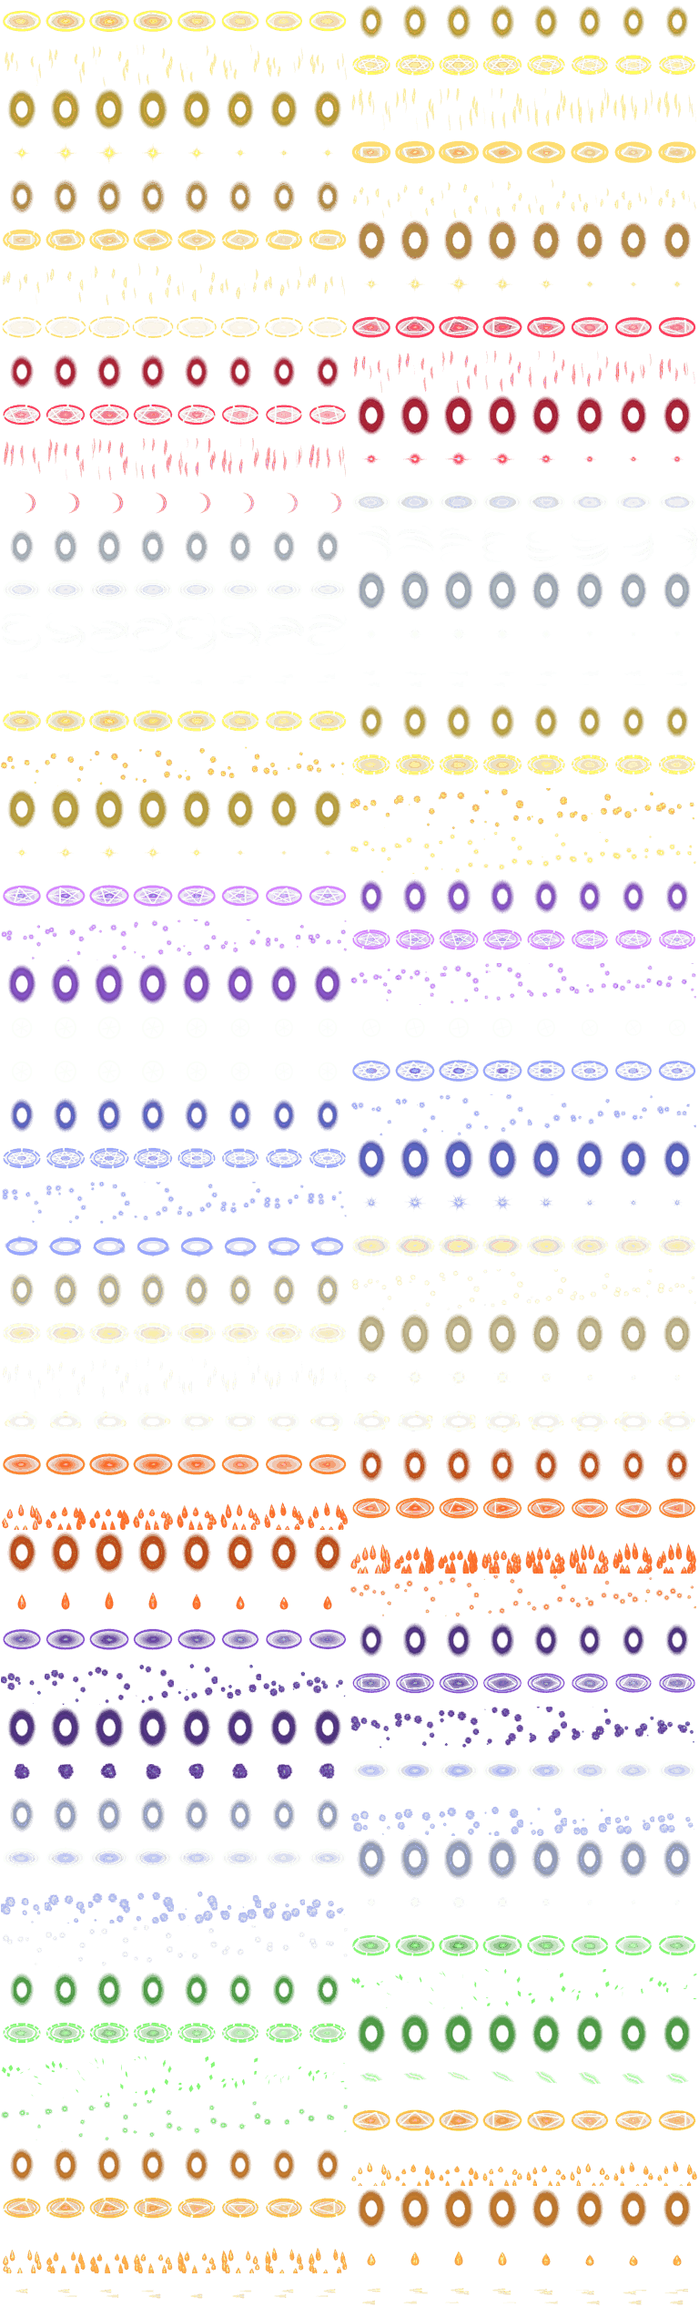
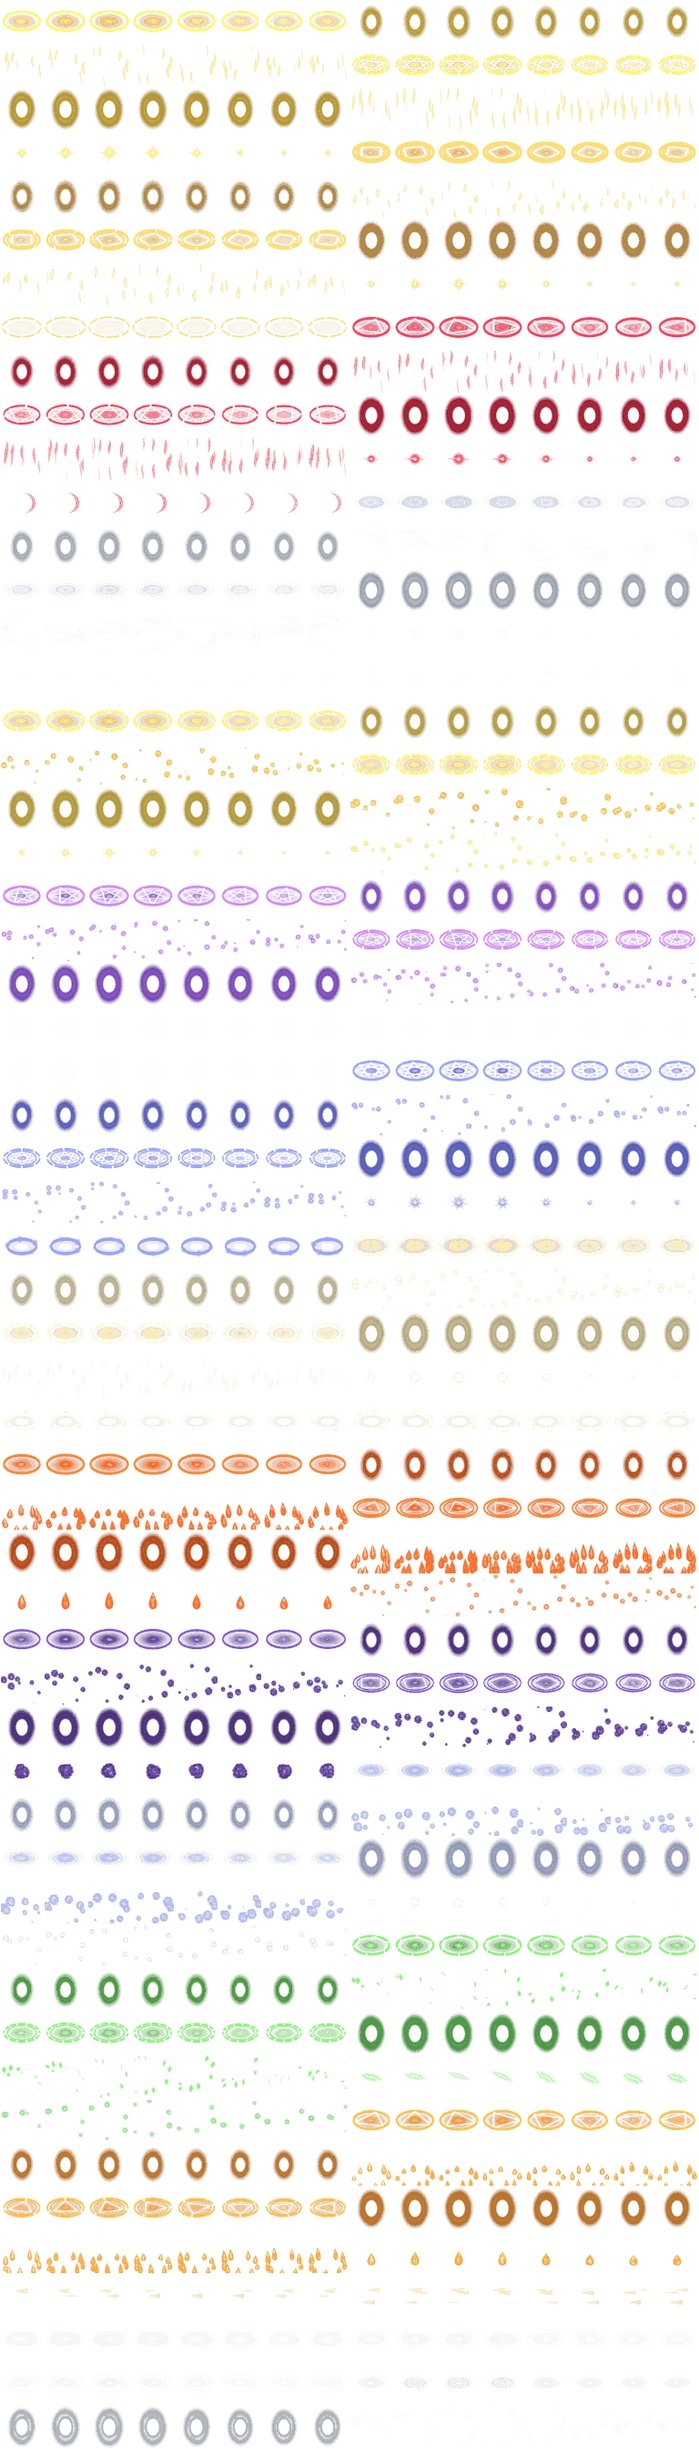
AURAS-BLENDER: no sparkles over a body; a level's rings, a summon's ring and glow rendered
The stars a fighter of a higher grade rose in were drawn in code in front
of its body and took no notice of reduced motion; a summon's are soft motes
behind it now. The level-milestone rings, the ring under a summon and a
summon's glow are plain rendered strips, tinted, under the feet or behind
the body.

Claude-Session: https://claude.ai/code/session_01RRJtWnKv3aqtC5Z8HqXpVz

Changed region(s): [[0.0, 0.0, 1.0, 1.0]]

diff --git a/src/render/unitView.ts b/src/render/unitView.ts
@@ -11,7 +11,7 @@ import { formOf, UNITS } from '../sim/units';
 import { REVIVE_MS } from '../sim/lives';
 import { RANK_BADGE } from '../expansionArt';
 import { AwakenAura } from './awakenAura';
-import { auraOf } from './auraStyles';
+import { auraOf, gradeParts, levelParts, markParts } from './auraStyles';
 import { awakenedSheet, battleSheet, combatAuraStep } from './awakenLook';
 import { summonLook, summonMark, summonSheet } from './summonArt';
 import { facesRightOf, framesOf, figureOf, hasSheet, type Anim } from './sheets';
@@ -61,7 +61,6 @@ const GRADE4_SIZE = 1.14;
 /** Rank 4's colours: a violet halo and rim, and violet sparks (grade 3's are gold). */
 const GRADE4_HALO = 0xb06aff;
 const GRADE4_RIM = 0xd49aff;
-const GRADE4_SPARK = 0xe6c2ff;
 /** The ultimate's meter under the skill's: violet while it fills, gold when ready. */
 const ULT_FILL = 0xb06aff;
 const ULT_READY = 0xffd24a;
@@ -139,8 +138,6 @@ export class UnitSprite {
   readonly root = new Container();
   private body = new Sprite();
   private shadow = new Graphics();
-  /** SUMMON-ART: a summon's ring under its feet, in its caller's element colour (empty for the rest). */
-  private mark = new Graphics();
   private bar = new Graphics();
   /** SUMMON-TIMERS: a small ring by the health bar of a summon or a shifted hero, emptying as its timer runs out (`timerOf`, carry.ts). */
   private clock = new Graphics();
@@ -163,9 +160,6 @@ export class UnitSprite {
   private kx = 0;
   private ky = 0;
   private flash = 0;
-  private glow = new Graphics();
-  /** The rings (and, higher up, the halo) of a deep level milestone, drawn once. */
-  private aura = new Graphics();
   /** Four flat-coloured copies of the body, a pixel out each way: a rim behind the sprite. */
   private rim = new Container();
   private sparks = new Graphics();
@@ -183,6 +177,8 @@ export class UnitSprite {
   private perkMark = new Sprite();
   /** An awakened hero's class aura (null for the rest). */
   private awakenAura: AwakenAura | null;
+  /** The plain strips round it (a level's rings, a summon's ring, a higher grade's glow), or none. */
+  private plainAura: AwakenAura | null = null;
   private burstAt = -1;
   /** When a life raised this fighter (Date.now ms; -1 when it is not getting up), and how it fell (for its tint going back). */
   private riseAt = -1;
@@ -237,12 +233,8 @@ export class UnitSprite {
     this.root.scale.set(size);
     this.baseSize = size;
     if (this.grade > 1) {
-      // a halo of stacked ellipses behind the body (silver-blue, then gold), drawn once, and a rim of the body's own shape
+      // a rim of the body's own shape (the glow behind it is its aura's: `AwakenAura`, or `gradeParts` for a summon)
       const col = this.grade > 3 ? GRADE4_HALO : auraOf(unit.def).colour;
-      const h = this.tall * 0.62;
-      // (AURAS-BLENDER: a hero's glow behind its body is its aura's own rendered shell now; only a fighter with no class aura, a foe
-      // or a summon of a higher grade, keeps the stacked ellipses)
-      if (!this.awakenAura) for (let i = 5; i >= 1; i--) this.glow.ellipse(0, -this.tall * 0.45, (12 + i * 5) / size, (h * (0.5 + i * 0.13)) / size).fill({ color: col, alpha: this.grade > 3 ? 0.16 : this.grade > 2 ? 0.12 : 0.1 });
       for (const [dx, dy] of [[-1.6, 0], [1.6, 0], [0, -1.6], [0, 1.6]]) {
         const r = new Sprite();
         r.anchor.set(0.5, 1);
@@ -254,15 +246,18 @@ export class UnitSprite {
       if (tone.length) this.body.filters = tone;
     }
     this.shadow.ellipse(0, 0, 13, 5).fill({ color: 0x000000, alpha: 0.32 });
+    // (AURAS-BLENDER: what was drawn in code round a fighter is rendered now, from the aura atlas's plain strips, each in its colour:
+    // the ring under a summon that says whose it is, the rings (and from the Gold badge a faint glow) a hero past a deep milestone
+    // stands in, and the glow and rising motes of a summon of a higher combat grade. All of it under the feet or behind the body:
+    // the stars a higher grade rose in were in front of it. Reduced motion holds each on one frame)
     const markColour = summon ? summonMark(unit.def) : undefined;
-    if (markColour !== undefined) this.mark.ellipse(0, 0, 12, 4.6).fill({ color: markColour, alpha: 0.16 }).stroke({ color: markColour, width: 1.2, alpha: 0.75 });
-    // a hero past a deep milestone (lasting level 40 and up) stands in steady rings of the badge's colour
     const tier = unit.side === 'hero' ? badgeOf(unit.level ?? 1) : 0;
-    if (tier) {
-      const col = AURA_COLOURS[tier];
-      for (let i = 0; i < auraRings(tier); i++) this.aura.ellipse(0, 0, 15 + i * 4, 6.5 + i * 1.7).stroke({ color: col, width: 1.5, alpha: 0.85 - i * 0.2 });
-      if (auraHalo(tier)) for (let i = 3; i >= 1; i--) this.aura.ellipse(0, -this.tall * 0.4, (10 + i * 5) / size, (this.tall * (0.28 + i * 0.12)) / size).fill({ color: col, alpha: 0.07 });
-    }
+    const plainParts = [
+      ...(markColour !== undefined ? markParts(markColour) : []),
+      ...levelParts(auraRings(tier), auraHalo(tier), AURA_COLOURS[tier] ?? 0),
+      ...(this.awakenAura ? [] : gradeParts(this.grade, this.grade > 3 ? GRADE4_HALO : auraOf(unit.def).colour, settings().saver)),
+    ];
+    this.plainAura = plainParts.length ? new AwakenAura(plainParts) : null;
     this.body.anchor.set(0.5, 1);
     this.shield.anchor.set(0.5);
     this.shield.visible = false;
@@ -280,7 +275,7 @@ export class UnitSprite {
     this.mergeRim.filters = [flatFilter(MERGE_RIM)];
     this.mergeRim.visible = false;
     this.drawPickRing();
-    this.root.addChild(this.shadow, this.pickRing, this.mark, this.aura, this.glow, ...(this.awakenAura ? [this.awakenAura.back] : []), this.pillar, this.shield, this.ail.back, this.mergeRim, this.rim, this.body, ...(this.awakenAura ? [this.awakenAura.front] : []), this.sparks, this.stars, this.bar, this.clock, this.badge, this.ail.front, ...(this.plate ? [this.plate] : []), this.perkMark, this.pickMark);
+    this.root.addChild(this.shadow, this.pickRing, ...(this.plainAura ? [this.plainAura.back] : []), ...(this.awakenAura ? [this.awakenAura.back] : []), this.pillar, this.shield, this.ail.back, this.mergeRim, this.rim, this.body, ...(this.awakenAura ? [this.awakenAura.front] : []), this.sparks, this.stars, this.bar, this.clock, this.badge, this.ail.front, ...(this.plate ? [this.plate] : []), this.perkMark, this.pickMark);
   }
 
   /** A nemesis's look (`sim/nemesis.ts`): its rank's rim round the body, a darker tone, and its name plate. Drawn once; nothing in it moves. */
@@ -501,6 +496,10 @@ export class UnitSprite {
     this.body.x = (facesRight(u.facing) ? 1 : -1) * motion.offset;
     this.body.scale.x *= 1 + motion.stretch;
     this.body.scale.y *= 1 - motion.stretch * 0.5;
+    if (this.plainAura) {
+      this.plainAura.back.visible = u.alive;
+      if (u.alive) this.plainAura.update(t, this.tall / this.sizeNow, dx, !!this.reduced?.matches);
+    }
     if (this.awakenAura) {
       this.awakenAura.back.visible = this.awakenAura.front.visible = u.alive;
       if (u.alive) this.awakenAura.update(t, this.tall / this.sizeNow, dx, !!this.reduced?.matches);
@@ -512,7 +511,6 @@ export class UnitSprite {
     this.shadow.alpha = def.flies ? 0.5 : 1;
     // (in a launch's arc the shadow stays on the ground)
     this.shadow.y = arcLift;
-    this.mark.visible = u.alive;
     this.pickRing.visible = this.picked;
     this.pickMark.visible = this.picked && u.alive;
     if (this.picked) {
@@ -852,26 +850,15 @@ export class UnitSprite {
   private drawSparks(alive: boolean): void {
     const g = this.sparks;
     const burst = this.burstAt >= 0 ? (Date.now() - this.burstAt) / BURST_MS : 2;
-    // (AURAS-BLENDER: a hero that wears a rendered aura has its motes from it, behind its body; the sparkles drawn here rose over
-    // the body, and took no notice of reduced motion. They are left to a fighter with no class aura)
-    const sparkle = this.grade > 2 && !this.awakenAura;
-    if (!alive || (!sparkle && burst > 1)) {
+    // (AURAS-BLENDER: the sparkles a grade 3 fighter rose in were drawn here, over its body, and took no notice of reduced motion.
+    // They are the aura's own motes now, behind the body: a hero's from its class aura, a summon's from `gradeParts`.)
+    if (!alive || burst > 1) {
       if (g.visible) g.clear();
       g.visible = false;
       return;
     }
     g.visible = true;
     g.clear();
-    const now = Date.now();
-    const gold = this.grade > 3 ? GRADE4_SPARK : this.grade > 2 ? 0xffe27a : 0xdce8ff;
-    // (rank 4 rises in more sparks, and violet ones)
-    const n = this.grade > 3 ? 9 : 6;
-    if (sparkle)
-      for (let i = 0; i < n; i++) {
-        const f = ((now / 1500 + i / n) % 1);
-        const x = Math.sin(i * 2.4 + now / 900) * 14;
-        g.star(x, -this.tall * 0.1 - f * this.tall * 0.95, 4, 3.4, 1.3).fill({ color: gold, alpha: Math.sin(Math.PI * f) });
-      }
     if (burst <= 1) {
       g.ellipse(0, -this.tall * 0.4, 8 + burst * 34, 4 + burst * 20).stroke({ color: 0xfff2b0, width: 3 * (1 - burst) + 0.5, alpha: 1 - burst });
       g.ellipse(0, -this.tall * 0.45, 12 + burst * 10, this.tall * 0.6).fill({ color: 0xffffff, alpha: 0.55 * (1 - burst) });

diff --git a/test/awaken-auras.test.ts b/test/awaken-auras.test.ts
@@ -1,7 +1,7 @@
 import { test } from 'node:test';
 import assert from 'node:assert/strict';
 import { readFileSync } from 'node:fs';
-import { AURAS, AURA_KEYS, auraKey, auraOf, auraParts, FALLBACK_AURA, FOE_AURA } from '../src/render/auraStyles';
+import { AURAS, AURA_KEYS, PLAIN_KEYS, auraKey, auraOf, auraParts, gradeParts, levelParts, markParts, FALLBACK_AURA, FOE_AURA } from '../src/render/auraStyles';
 import { newPose, poseAura } from '../src/render/auraPlace';
 import { HERO_TRAITS, TRAITS } from '../src/sim/traits';
 import { ALL_HEROES } from '../src/sim/units';
@@ -20,7 +20,7 @@ test('the rendered aura strips are small soft-edged transparent cells and fit wi
   const width = png.readUInt32BE(16), height = png.readUInt32BE(20);
   assert.ok(width <= 4096 && height <= 4096, 'fits mobile texture limits');
   const occupied = new Set<string>();
-  assert.deepEqual(Object.keys(atlas.parts).sort(), [...AURA_KEYS].sort());
+  assert.deepEqual(Object.keys(atlas.parts).sort(), [...AURA_KEYS, ...PLAIN_KEYS].sort());
   for (const [key, [x, y, frames]] of Object.entries(atlas.parts)) {
     assert.equal(frames, 8, `${key} has a complete animation loop`);
     assert.ok((x + frames) * atlas.cell <= width && (y + 1) * atlas.cell <= height, key);
@@ -107,6 +107,30 @@ test('AURAS-BLENDER: nothing of an aura is drawn in front of the body, and the s
   }
   // (a hero that wears a rendered aura has no code-drawn halo behind it and no code-drawn sparkles over it)
   const view = readFileSync('src/render/unitView.ts', 'utf8');
-  assert.match(view, /if \(!this\.awakenAura\) for \(let i = 5; i >= 1; i--\) this\.glow\.ellipse\(/);
-  assert.match(view, /const sparkle = this\.grade > 2 && !this\.awakenAura;/);
+  assert.ok(!/this\.glow\.ellipse|this\.aura\.ellipse|this\.mark\.ellipse|g\.star\(x, -this\.tall/.test(view), 'no halo, ring or rising star is drawn in code');
+});
+
+test('AURAS-BLENDER: a level\'s rings, a summon\'s ring and a higher grade\'s glow are plain rendered strips, tinted, under or behind the body', () => {
+  const all = [...levelParts(3, true, 0xffb878), ...markParts(0x6cd060), ...gradeParts(4, 0xb06aff)];
+  for (const part of all) {
+    assert.ok(PLAIN_KEYS.includes(part.key), part.key);
+    assert.ok(!part.front, `${part.key} is never in front of the body`);
+    assert.ok(part.tint !== undefined, `${part.key} takes its colour`);
+    assert.ok(['ground', 'wrap', 'rise'].includes(part.place));
+  }
+  // (none below the first milestone or the second grade; more rings higher up, a glow only from the halo's tier)
+  assert.deepEqual(levelParts(0, false, 0), []);
+  assert.deepEqual(gradeParts(1, 0xffffff), []);
+  assert.equal(levelParts(1, false, 1).length, 1);
+  assert.equal(levelParts(1, false, 1)[0].key, 'plain.ring1');
+  assert.equal(levelParts(3, true, 1)[0].key, 'plain.ring3');
+  assert.equal(levelParts(3, true, 1).length, 2);
+  // (a summon of grade 2 glows; from grade 3 its motes rise, behind it, and are dropped on battery saver)
+  assert.deepEqual(gradeParts(2, 1).map((x) => x.key), ['plain.shell']);
+  assert.deepEqual(gradeParts(3, 1).map((x) => x.key), ['plain.shell', 'plain.rise']);
+  assert.deepEqual(gradeParts(3, 1, true).map((x) => x.key), ['plain.shell']);
+  assert.ok(gradeParts(4, 1)[0].alpha > gradeParts(2, 1)[0].alpha);
+  const view = readFileSync('src/render/unitView.ts', 'utf8');
+  assert.match(view, /\.\.\.\(this\.awakenAura \? \[\] : gradeParts\(/);
+  assert.match(view, /this\.plainAura\.update\(t, this\.tall \/ this\.sizeNow, dx, !!this\.reduced\?\.matches\)/);
 });

diff --git a/src/render/auraStyles.ts b/src/render/auraStyles.ts
@@ -42,6 +42,8 @@ export interface AuraPart {
   low?: boolean;
   /** Orbiting pieces turned along their path (arcs, blades). */
   turn?: boolean;
+  /** A plain (white) strip's colour: a level's rings, a summon's ring, a higher grade's glow. */
+  tint?: number;
 }
 
 export interface AuraStyle {
@@ -120,3 +122,26 @@ export function auraParts(kind: string, step: number, saver = false): readonly A
 
 /** Every part's atlas key, in order (what an atlas must hold: the pack's today, a painted one later). */
 export const AURA_KEYS: readonly string[] = Object.values(AURAS).flatMap((a) => a.steps.flatMap((s) => s.map((x) => x.key)));
+
+/** AURAS-BLENDER, the plain strips: white in the atlas and given their colour here (`tint`). They took the place of ellipses and
+ *  stars drawn in code: the rings a hero of a deep level stands in, the ring under a summon that says whose it is, and the glow and
+ *  rising motes of a fighter of a higher combat grade that has no class aura (a summon). */
+export const PLAIN_KEYS: readonly string[] = ['plain.ring1', 'plain.ring2', 'plain.ring3', 'plain.mark', 'plain.shell', 'plain.rise'];
+const plain = (role: string, place: AuraPlace, size: number, alpha: number, tint: number, more: Partial<AuraPart> = {}): AuraPart => ({ ...p(role, place, size, alpha, more), key: `plain.${role}`, tint });
+
+/** The rings a hero past a deep milestone stands in (`badgeOf`), `rings` hoops of the badge's colour, set wide of its class's own
+ *  ring; with `halo`, a faint glow of that colour behind the body. */
+export function levelParts(rings: number, halo: boolean, colour: number): AuraPart[] {
+  if (rings <= 0) return [];
+  return [plain(`ring${Math.min(3, rings)}`, 'ground', 1.55 + rings * 0.1, 0.9, colour), ...(halo ? [plain('shell', 'wrap', 1.2, 0.35, colour, { add: true })] : [])];
+}
+
+/** The ring under a summon, in its caller's colour. */
+export const markParts = (colour: number): AuraPart[] => [plain('mark', 'ground', 0.95, 0.9, colour)];
+
+/** A fighter of combat grade 2 and up with no class aura (a summon): a glow of the colour behind its body, and from grade 3 motes
+ *  of it rising at its sides. Behind the body, as every aura is: the stars this replaced rose in front of it. */
+export function gradeParts(grade: number, colour: number, saver = false): AuraPart[] {
+  if (grade < 2) return [];
+  return [plain('shell', 'wrap', 1.35, grade > 3 ? 0.8 : grade > 2 ? 0.65 : 0.5, colour, { add: true }), ...(grade > 2 && !saver ? [plain('rise', 'rise', 1.7, 1, colour, { add: true, extra: true })] : [])];
+}

diff --git a/src/render/awakenAura.ts b/src/render/awakenAura.ts
@@ -7,7 +7,7 @@
 import { Container, Rectangle, Sprite, Texture } from 'pixi.js';
 import { AURA_CELL, AURA_PIXEL, auraImage, auraStrip, loadAuraImage } from './auraArt';
 import { newPose, poseAura } from './auraPlace';
-import { AURA_KEYS, auraParts, type AuraPart } from './auraStyles';
+import { AURA_KEYS, PLAIN_KEYS, auraParts, type AuraPart } from './auraStyles';
 
 const STRIPS = new Map<string, Texture[]>();
 let ready = false;
@@ -21,7 +21,7 @@ export async function loadAuraArt(): Promise<void> {
   base.source.style.scaleMode = AURA_PIXEL ? 'nearest' : 'linear';
   // (parts that share a strip share its frames)
   const rows = new Map<string, Texture[]>();
-  for (const key of AURA_KEYS) {
+  for (const key of [...AURA_KEYS, ...PLAIN_KEYS]) {
     const s = auraStrip(key);
     if (!s) continue;
     const at = `${s[0]}:${s[1]}`;
@@ -54,8 +54,9 @@ export class AwakenAura {
   private built = false;
   private readonly parts: readonly AuraPart[];
 
-  constructor(kind: string, step: number, saver: boolean) {
-    this.parts = auraParts(kind, step, saver);
+  /** A hero's class aura at a step; or (`parts` given outright) the plain strips of a level, a summon or a higher grade. */
+  constructor(kind: string | readonly AuraPart[], step = 0, saver = false) {
+    this.parts = typeof kind === 'string' ? auraParts(kind, step, saver) : kind;
   }
 
   private build(): void {
@@ -67,6 +68,7 @@ export class AwakenAura {
       for (let i = 0; i < n; i++) {
         const sp = new Sprite(frames[0]);
         sp.blendMode = part.add ? 'add' : 'normal';
+        if (part.tint !== undefined) sp.tint = part.tint;
         (part.front ? this.front : this.back).addChild(sp);
         this.bits.push({ sp, part, frames, i });
       }

diff --git a/tools/blender-fx/auras/build.py b/tools/blender-fx/auras/build.py
@@ -30,7 +30,9 @@ TAU = math.tau
 # Each class's colour (the same as `auraStyles.ts`), as a palette: deep, mid, bright, hot.
 COLOURS = dict(guardian=0xffd24a, bulwark=0xf0b860, blade=0xe0304a, marksman=0xdbe8f4, gunner=0xf2d35a, caster=0xb06cff,
                arcanist=0x7a86ff, support=0xfff0b8, beast=0xff6a2a, assassin=0x6a46a8, trickster=0xc6d2ff, warden=0x6cd060,
-               vanguard=0xffa040)
+               vanguard=0xffa040,
+               # (the plain strips: white, and given their colour by the game: a level's rings, a summon's ring, a higher grade's glow)
+               plain=0xffffff)
 
 
 def palette(hexc):
@@ -403,6 +405,17 @@ RECIPES = dict(
     vanguard=klass(dict(rings=1, points=3, skip=1, glow=1.2), dict(rings=2, points=3, skip=1, dots=3, glow=1.3), R('flames', UP, n=6, h=0.45, fat=0.13), R('flames', UP, n=9, h=0.6, fat=0.14),
                    R('ember', UP, h=0.55), {'1.trail': R('streaks', MID, n=2), '2.trail': R('streaks', MID, n=3, length=1.0)}),
 )
+# The plain strips (`PLAIN_KEYS` in auraStyles.ts): white, tinted by the game. The rings a hero of a deep level stands in (one,
+# two, three hoops), the ring under a summon that says whose it is, and the glow and rising motes of a fighter of a higher combat
+# grade that has no class aura (a summon). They took the place of ellipses and stars drawn in code.
+RECIPES['plain'] = {
+    'ring1': R('ground', FLAT, rings=1, thick=0.034, glow=0.5),
+    'ring2': R('ground', FLAT, rings=2, thick=0.03, glow=0.5),
+    'ring3': R('ground', FLAT, rings=3, dots=6, thick=0.028, glow=0.6),
+    'mark': R('ground', FLAT, rings=1, thick=0.03, glow=1.1, r=0.5),
+    'shell': R('shell', MID),
+    'rise': R('bits', UP, n=7, h=1.2, size=0.085, spin=0.3),
+}
 KEYS = [f'{k}.{part}' for k, parts in RECIPES.items() for part in parts]
 
 

diff --git a/docs/notes/auras-blender.md b/docs/notes/auras-blender.md
@@ -99,7 +99,6 @@ Not yet started over (the next steps, in the order I would take them):
 | The ailments' body parts (burn, poison, freeze and the rest: eleven) and their chips | `ailmentLayer.ts`, `statusStyles.ts` | painted atlas `src/art/fx/status/atlas.png`, 1,007,371 bytes |
 | The guard ring (a raised guard) | `unitView.ts` | a painted strip (`VFX.earthShield`) |
 | Stand marks on a fighter (time stop, hunter's mark, bane, rage, siege) and the moves' ground loops (War Banner, Rally Cry) | `fx.ts` `paintStand`, `movePaints.ts` | painted spell atlases |
-| Level-milestone rings and halo | `unitView.ts`, `levelLook.ts` | code-drawn `Graphics` |
 | The halo and sparkles of a foe or summon of a higher grade; a summon's ring; the Nemesis rim | `unitView.ts` | code-drawn |
 | Haste's gold dust and slow's ice puffs | `fx.ts` | painted particles |
 | The Last Stand's rings | `standView.ts` | code-drawn |
@@ -186,3 +185,37 @@ What I did not look at: a field cast by its real owner in an ordinary fight (eac
 the reach its ability gives); the Dirge's violet tint of the song; 360 x 780 and 412 x 915; reduced motion in a picture. The
 large fields (the slow field is eight tiles across, the font seven) are drawn three to four times their pixels' size, so their
 hoops are broad soft bands and their marks coarse; the small ones (the daggers, the spikes) are the crispest.
+
+## Group 5: what was drawn in code round a fighter
+
+- **The sparkles over the body are gone.** A fighter of combat grade 3 or 4 rose in gold (or violet) stars drawn in code in front
+  of its body, on the wall clock, taking no notice of reduced motion. Heroes lost them in the first step (their class aura's
+  motes); the only fighters still wearing them were **summons** of a higher grade (a foe is never above grade 1 on the board, so
+  there was no foe halo to replace). A summon's are now soft motes rising at its sides, behind its body (`gradeParts`), held
+  still for reduced motion and dropped on battery saver.
+- **A summon's glow** (the stacked ellipses behind a summon of grade 2 and up) is the rendered shell, in the same colour.
+- **The level-milestone rings** (a hero of lasting level 40 and up, in a run that does not level its own heroes: one, two or
+  three thin ellipses in the badge's colour, and from the Gold badge stacked ellipses behind the body) are rendered hoops with a
+  soft pool, set wide of the class's own ring, and a faint shell of the badge's colour (`levelParts`). They turn slowly and
+  breathe; reduced motion holds them.
+- **The ring under a summon** that says whose it is (an ellipse in its caller's colour) is a rendered ring (`markParts`).
+
+All four come from six **plain strips** in the class aura's atlas (`plain.ring1`, `ring2`, `ring3`, `mark`, `shell`, `rise`:
+white, and tinted to their colour by the game), drawn by the same `AwakenAura` class from a list of parts, under the feet or
+behind the body. The three `Graphics` they were drawn on are removed from the fighter.
+
+**Left as they are:** the Nemesis rim and the grade rim. Each is the fighter's own body drawn again in one flat colour a pixel
+out each way, an outline that follows its pose frame by frame; a rendered sheet cannot give a fighter's outline, and it lies
+behind the body already. The Last Stand's rings were skipped (the mode is hidden).
+
+| | Before this group | After |
+| --- | --- | --- |
+| `src/art/fx/aura/atlas.png` | 215,762 bytes, 768 x 2544 | 226,998 bytes, 768 x 2688 |
+
+Pictures: `docs/samples/auras/plain/plain-before-after.jpg`: the Druid's treant at grade 3 (the stars over its body, then the
+motes beside it), and the Knight at lasting levels 44, 61 and 100, before over after, at 393 x 852 and twice the size.
+`SUMMONS=1` and `XP=<n>` with `LEVEL=1` on the tool's `AURA=1` mode take them.
+
+What I did not look at: the ring under the treant is hidden by a plant in its crop, and the Beastmaster's wolf was buried in
+the melee in every frame, so a summon's ring is not shown in a picture; a summon of grade 2 and of grade 4; the other two phone
+sizes; reduced motion in a picture.
